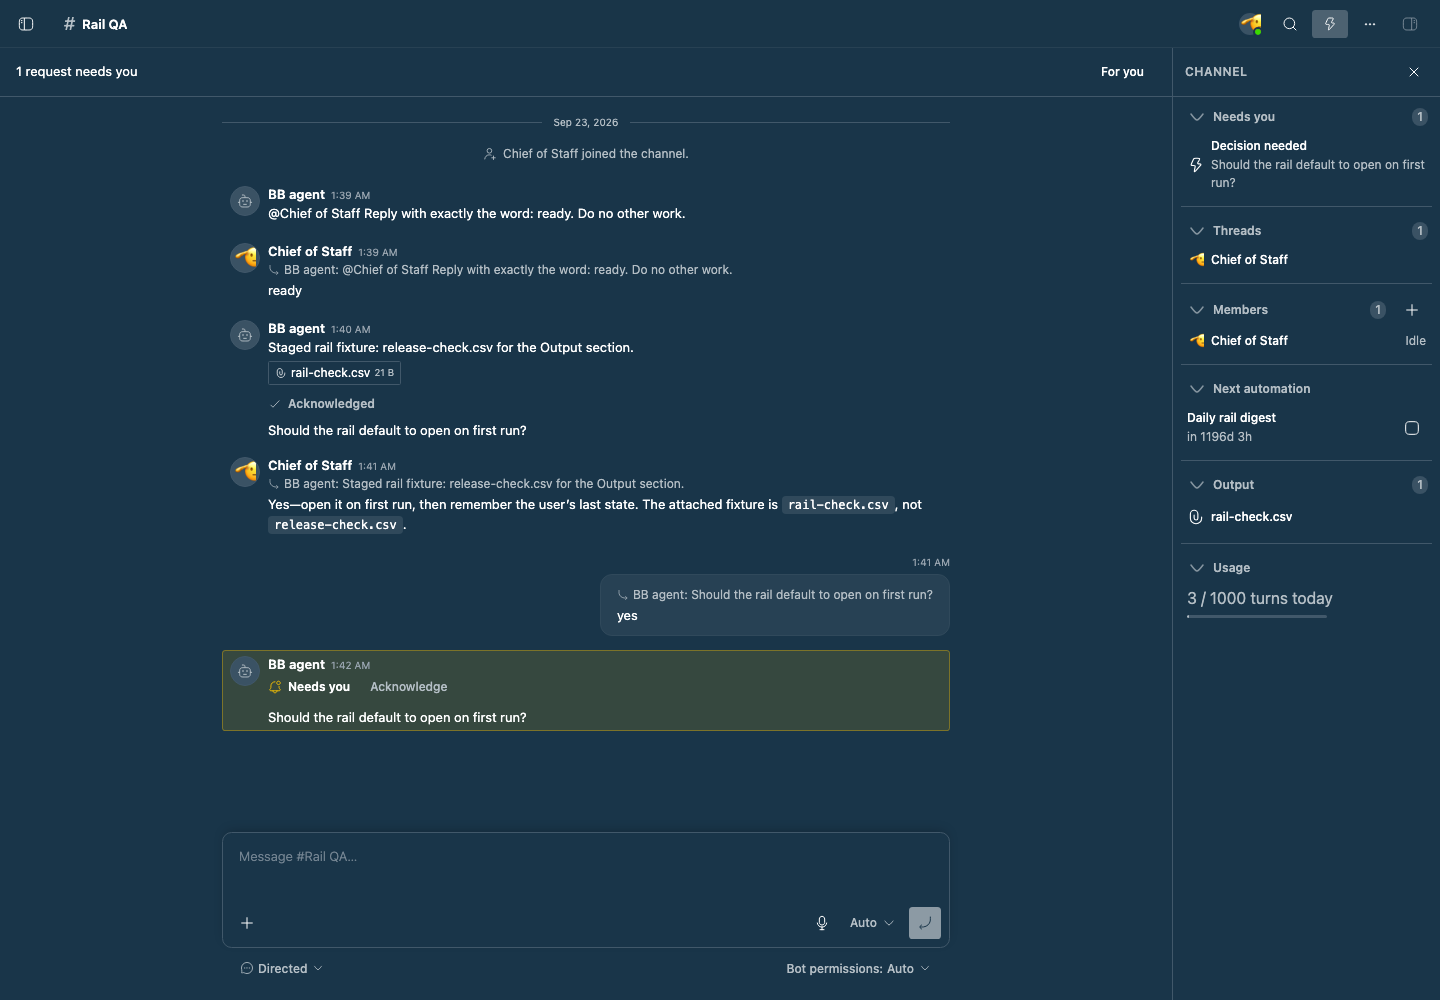
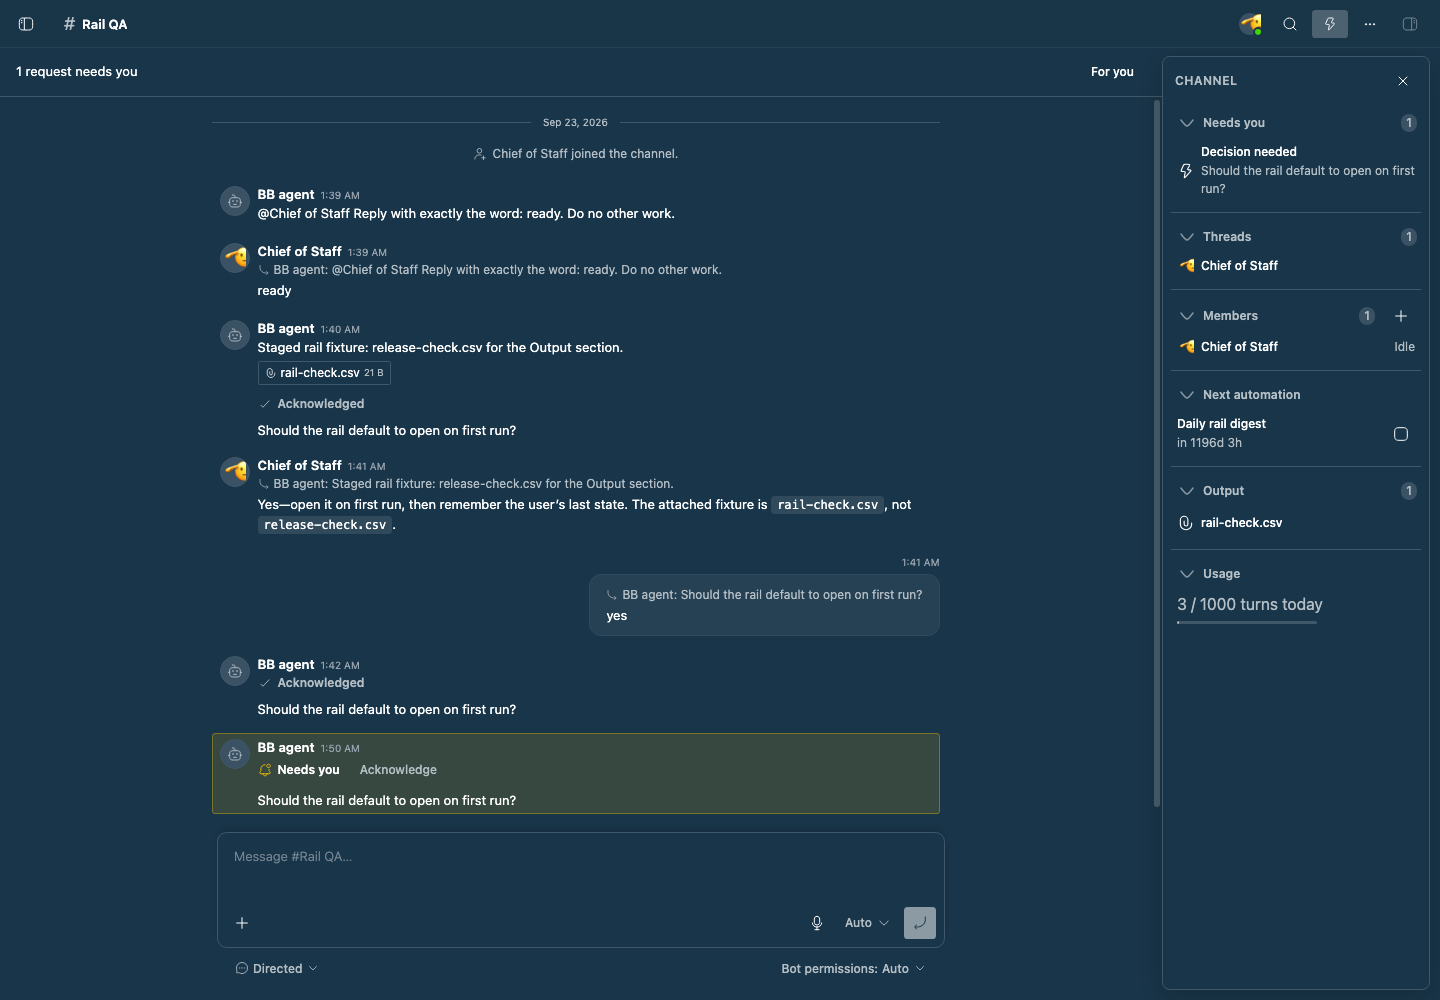
style(bot-teams): float the channel rail as its own card
The rail was docked with a hard left border, which is not the detached panel
the design called for. Inset it with a margin, round its corners, give it the
raised card surface and a shadow, and drop the header's hard divider so it
reads as a card floating beside the transcript.

diff --git a/packages/bb-plugin-bot-teams/styles.css b/packages/bb-plugin-bot-teams/styles.css
@@ -2985,14 +2985,19 @@
 }
 
 /* Channel rail: ambient state for the open channel, beside the transcript. */
+/* A card that floats beside the transcript rather than a docked column. */
 .channel-rail {
   display: flex;
   flex-direction: column;
   width: 268px;
   flex: 0 0 268px;
   min-height: 0;
-  border-left: 1px solid var(--border);
-  background: var(--background);
+  margin: 8px 10px 10px 0;
+  border: 1px solid var(--border);
+  border-radius: calc(var(--radius, 8px) + 2px);
+  background: var(--card, var(--background));
+  box-shadow: 0 8px 30px #0003;
+  overflow: hidden;
 }
 /*
  * The rail shares the channel with BB's own right panel. Measure the channel,
@@ -3009,8 +3014,7 @@
   align-items: center;
   justify-content: space-between;
   gap: 8px;
-  padding: 8px 6px 8px 12px;
-  border-bottom: 1px solid var(--border);
+  padding: 8px 6px 6px 12px;
 }
 .channel-rail-heading {
   margin: 0;

diff --git a/packages/bb-plugin-bot-teams/README.md b/packages/bb-plugin-bot-teams/README.md
@@ -91,10 +91,10 @@ its workbench drawer.
 
 ## Channel rail
 
-The rail beside the transcript answers "what is true in this channel right
-now". The workbench tabs stay for what is configured and what already
-happened; the rail holds live state and collapses to almost nothing when the
-channel is quiet.
+The rail floats beside the transcript as its own card and answers "what is
+true in this channel right now". The workbench tabs stay for what is
+configured and what already happened; the rail holds live state and collapses
+to almost nothing when the channel is quiet.
 
 - **Live now** lists each working bot with its elapsed time, current activity,
   anything queued behind it, and a **Stop** button. It also shows the routing
@@ -342,9 +342,10 @@ The renamed Bot Teams collection in BB, filtered to the staged Atlas research
 bot. Atlas has mission schedules off; the capture restores its prior retirement
 state afterward.
 
-![The channel rail beside a staged channel transcript](assets/channel-rail.png)
+![The floating channel rail beside a staged channel transcript](assets/channel-rail.png)
 
-The running BB application shows the rail beside the staged Rail QA channel:
+The running BB application shows the rail floating beside the staged Rail QA
+channel:
 an open decision under **Needs you**, the bot's work thread, the member roster
 with its live state, a scheduled digest counting down, the published
 `rail-check.csv`, and the channel's turns used today. Live now is absent here
